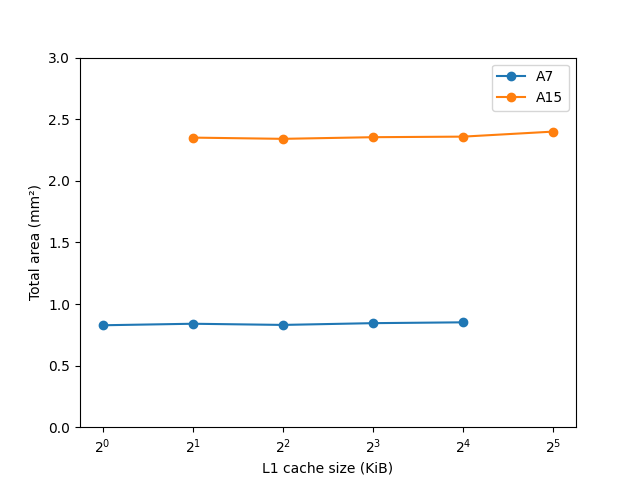
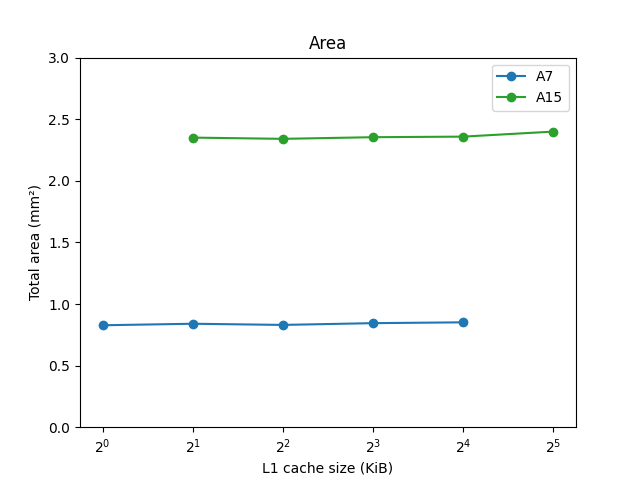
Partie 4

diff --git a/TP4/partie_3_4/prog.py b/TP4/partie_3_4/prog.py
@@ -8,37 +8,50 @@ file_name = "output.txt"
 output_file = "cacti_out.txt"
 temp_file_name = "temp.cfg"
 
+pattern_float = r"(\d+(?:\.\d*)?(?:e[-+]?\d+)?)"
 
 def run(command, output_file):
     arg = command.split()
-    with open(output_file, "w") as file:    
+    with open(output_file, "w") as file:
         process = subprocess.run(arg, stdout=file, stderr=file)
         pass
 
-    if process.returncode != 0:
-        print("Erreur dans le sous-processus")
-        print(f"Commande entrée : '{command}'")
-        print(f"returncode = {process.returncode}")
-        # exit(1)
+    # if process.returncode != 0:
+    #     print("Erreur dans le sous-processus")
+    #     print(f"Commande entrée : '{command}'")
+    #     print(f"returncode = {process.returncode}")
     return process.returncode
 
 
-def cacti_area(config_file, output_file="cacti_out.txt"):
+def cacti_stats(config_file, output_file="cacti_out.txt"):
     command = f"cacti6.5 -infile {config_file}"
     code = run(command, output_file)
     if code != 0:
-        return float("nan")
+        return float("nan"), float("nan")
 
-    pattern = r"\(mm2\): (\d+\.?\d+)"
+    # Area extraction
+    pattern = r"\(mm2\): " + pattern_float
     with open(output_file, "r") as file:
         text = "".join(file.readlines())
 
-    areas  = re.findall(pattern, text) 
+    areas = re.findall(pattern, text) 
     assert len(areas) == 2
 
-    area_cache = sum(map(float, areas))
-    return area_cache
+    area_cache = sum(map(float, areas)) # résultat en mm²
 
+    # Power extraction
+    pattern = r"(?:Data|Tag) array: +Total dynamic read energy/access +\(nJ\): " + pattern_float
+    energies = re.findall(pattern, text)
+    assert len(energies) == 2
+
+    pattern = r"(?:Data|Tag) side \(with Output driver\) \(ns\): " + pattern_float
+    durations = re.findall(pattern, text)
+    assert len(durations) == 2
+
+
+    power_cache = sum(map((lambda e, d: float(e)/float(d)), energies, durations)) * 1000 # résultat en watts
+
+    return area_cache, power_cache
 
 def write_file(proc, n_kibibytes, temp_file_name):
     with open(f"{proc}_L1.cfg", "r") as src, open(temp_file_name, "w") as dest:
@@ -53,35 +66,58 @@ def write_file(proc, n_kibibytes, temp_file_name):
 
 
 for proc in ("A7", "A15"):
-
+    print(proc)
     area_L1 = []
-    area_L2 = cacti_area(f"{proc}_L2.cfg")
-        
-    for n_kibibytes in (1, 2, 4, 8, 16, 32):    
+    power_L1 = []
+    area_L2, power_L2 = cacti_stats(f"{proc}_L2.cfg")
+
+    for n_kibibytes in (1, 2, 4, 8, 16, 32):
         write_file(proc, n_kibibytes, temp_file_name)
-        area_L1.append(cacti_area(temp_file_name))
+        a, p = cacti_stats(temp_file_name)
+        area_L1.append(a)
+        power_L1.append(p)
 
 
     # area_L1[i] contient la surface d'un cache L1 de taille 2^i kibioctets
 
 
     if proc == "A7" :
-        area_proc_plus_L1s = 0.45 
+        area_proc_plus_L1s = 0.45
+        power_proc = 100.
     elif proc == "A15":
         area_proc_plus_L1s = 2. 
+        power_proc = 500.
+
     proportion = 2 * area_L1[5] / area_proc_plus_L1s
     area_proc = area_proc_plus_L1s - 2 * area_L1[5]
 
     area_total = [area_proc + 2*area_L1[i] + area_L2 for i in range(6)]
 
+    power_proc_plus_L1 = [power_proc + 2*power_L1[i] for i in range(6)]
 
 
-    print(f" --- Processeur Cortex {proc}  --- ")
+
+    print(f" --- Processeur Cortex {proc} --- ")
 
     print(f"Surface processeur sans caches : {area_proc:.4}mm²")
     print(f"Surface de chaque cache L1 : {area_L1[5]:.4}mm²")
     print(f"Surface du cache L2 : {area_L2:.4}mm²")
     print(f"Les caches L1 occupent : {proportion:.2%} de l'ensemble coeur + caches L1")
-
-    print(area_total)
+    print(f"Surface totale : {area_total[5]:.4}mm²")
     print()
+
+    print(f"Puissance processeur sans caches : {power_proc:.4}mW")
+    print(f"Puissance de chaque cache L1 : {power_L1[5]:.4}mW")
+    print(f"Puissance du cache L2 : {power_L2:.4}mW")
+    print(f"Puissance totale (hors L1): {power_proc_plus_L1[5]:.4}mW")
+    print()
+
+    print("Valeurs en fonction de la taille des L1")
+    print("Surface proc + deux L1 + L2 : ", area_total)
+    print("Puissance L1 : ", power_L1)
+    print()
+
+
+
+
+

diff --git a/TP4/partie_3_4/graphs.py b/TP4/partie_3_4/graphs.py
@@ -1,6 +1,11 @@
 import matplotlib.pyplot as plt
 import numpy as np
 
+
+# L1 cache size vs. Area proc + 2 L1 + L2 
+
+plt.figure(1)
+
 A7_size = np.array([1, 2, 4, 8, 16])
 A15_size = np.array([2, 4, 8, 16, 32])
 
@@ -14,35 +19,92 @@ ax.set_ylim(0, 3)
 ax.set_xlabel("L1 cache size (KiB)")
 ax.set_ylabel("Total area (mm²)")
 
-ax.plot(A7_size, A7_total_area, "o-")
-ax.plot(A15_size, A15_total_area, "o-")
+ax.plot(A7_size, A7_total_area, "o-", color='#1f77b4')
+ax.plot(A15_size, A15_total_area, "o-", color='#2ca02c')
 ax.legend(["A7", "A15"])
+ax.set_title("Area")
 
 
 
+# L1 cache size vs. Efficacité surfacique avec L2
+# Dijkstra et Blowfish
 
 plt.figure(2)
 
-# Données calculées pour Blowfish
+A7_IPC_dijkstra = np.array([0.3783 , 0.3961, 0.4889 , 0.5000 , 0.5088 ])
+A7_IPC_blowfish = np.array([0.3649 , 0.3928 , 0.4195 , 0.4803 , 0.4894 ])
 
-A7_IPC = np.array([0.3783 , 0.3961, 0.4889 , 0.5000 , 0.5088 ])
-A15_IPC = np.array([0.9392 , 0.8977 , 1.0758 , 1.1312 , 1.1918 ])
+A15_IPC_dijkstra = np.array([0.9392 , 0.8977 , 1.0758 , 1.1312 , 1.1918 ])
+A15_IPC_blowfish = np.array([0.9321 , 1.2941 , 1.3239 , 1.3633 , 2.0729 ])
 
-A7_efficiency = A7_IPC / A7_total_area
-A15_efficiency = A15_IPC / A15_total_area
+A7_area_efficiency_dijkstra = A7_IPC_dijkstra / A7_total_area
+A7_area_efficiency_blowfish = A7_IPC_blowfish / A7_total_area
+
+A15_area_efficiency_dijkstra = A15_IPC_dijkstra / A15_total_area
+A15_area_efficiency_blowfish = A15_IPC_blowfish / A15_total_area
 
 
 ax = plt.gca()
 ax.set_xscale("log", base=2)
 
-ax.set_ylim(0, .8)
+ax.set_ylim(0, 1)
 ax.set_xlabel("L1 cache size (KiB)")
 ax.set_ylabel("Efficiency (IPC/mm²)")
 
-ax.plot(A7_size, A7_efficiency, "o-")
-ax.plot(A15_size, A15_efficiency, "o-")
+ax.plot(A7_size, A7_area_efficiency_dijkstra, "o-")
+ax.plot(A7_size, A7_area_efficiency_blowfish, "o-")
 
-ax.legend(["A7", "A15"])
+ax.plot(A15_size, A15_area_efficiency_dijkstra, "o-")
+ax.plot(A15_size, A15_area_efficiency_blowfish, "o-")
 
+ax.legend(["A7 dijkstra", "A7 blowfish", "A15 dijkstra", "A15 blowfish"])
+ax.set_title("Area Efficiency")
+
+
+
+# L1 cache size vs. Efficacité énergétique hors L2
+
+plt.figure(3)
+# A7_power = np.array( [429.5158138326633, 438.290650317782, 439.7005726427026, 444.79356573677114, 462.54843489878095]) #, 504.9631522516877])
+# A15_power = np.array([832.8616820299354, 833.726046018594, 835.0970092875704, 856.5908113613577, 891.8253953687693])
+
+p_rw_dijkstra = .344
+p_rw_blowfish = .2548
+
+A7_L1_power = np.array([9.064081144350169, 13.451499386909527, 14.156460549369815, 16.70295709640407, 25.580391677408983]) #, 46.78775035386236]
+A15_L1_power = np.array([13.567975081504306, 14.000157075833627, 14.68563871032174, 25.43253974721548, 43.049831750921236])
+
+
+A7_power_dijkstra = 100 + 2 * A7_L1_power * p_rw_dijkstra
+A7_power_blowfish = 100 + 2 * A7_L1_power * p_rw_blowfish
+A15_power_dijkstra = 500 + 2 * A15_L1_power * p_rw_dijkstra
+A15_power_blowfish = 500 + 2 * A15_L1_power * p_rw_blowfish
+
+A7_energy_efficiency_dijkstra = A7_IPC_dijkstra / A7_power_dijkstra
+A7_energy_efficiency_blowfish = A7_IPC_blowfish / A7_power_blowfish
+
+A15_energy_efficiency_dijkstra = A15_IPC_dijkstra / A15_power_dijkstra
+A15_energy_efficiency_blowfish = A15_IPC_blowfish / A15_power_blowfish
+
+
+ax = plt.gca()
+ax.plot(A7_size, A7_energy_efficiency_dijkstra, "o-")
+ax.plot(A7_size, A7_energy_efficiency_blowfish, "o-")
+ax.plot(A15_size, A15_energy_efficiency_dijkstra, "o-")
+ax.plot(A15_size, A15_energy_efficiency_blowfish, "o-")
+
+ax.set_xscale("log", base=2)
+
+ax.set_ylim(0, .0050)
+ax.set_xlabel("L1 cache size (KiB)")
+ax.set_ylabel("Efficiency (IPC/mW)")
+
+ax.legend(["A7 dijkstra", "A7 blowfish", "A15 dijkstra", "A15 blowfish"])
+ax.set_title("Energy Efficiency (without L2)")
 
 plt.show()
+
+
+
+
+

diff --git a/TP4/partie_3_4/README.md b/TP4/partie_3_4/README.md
@@ -1,3 +1,6 @@
+Pour les parties 3 et 4, l'exécution des commandes, l'extraction des données, et l'édition des tailles du cache L1 sont automatisées dans le script 'prog.py'  
+Certains calculs et la génération des graphiques se trouvent dans 'graphes.py'  
+
 # 3. Efficacité surfacique
 
 ### Q6
@@ -21,28 +24,75 @@ On laisse les autres paramètres comme dans l'exemple, y compris la technologie 
 On somme les valeurs d'aire des sections 'Data array' et 'Tag array' récupèrées dans le texte emis par cacti.  
 Connaissant l'aire d'un processeur avec ses deux L1 fournie par l'énoncé, et celle d'un cache L1 que l'on vient de de calculer, on peut alors déterminer l'aire du processeur seul.  
 
-> --- Processe> ur Cortex A7  ---  
-> Surface processeur sans caches : 0.373mm²  
-> Surface de chaque cache L1 : 0.0384mm²  
-> Surface du cache L2 : 0.446mm²  
-> Les caches L1 occupent 17.1% de l'ensemble coeur + caches L1  
+> --- Processeur Cortex A7 ---  
+> Surface processeur sans caches : 0.3731mm²  
+> Surface de chaque cache L1 : 0.03843mm²  
+> Surface du cache L2 : 0.4457mm²  
+> Les caches L1 occupent : 17.08% de l'ensemble coeur + caches L1  
+> Surface totale : 0.8957mm²  
 
-> --- Processeur Cortex A15  ---  
+> --- Processeur Cortex A15 ---  
 > Surface processeur sans caches : 1.93mm²  
 > Surface de chaque cache L1 : 0.0346mm²  
 > Surface du cache L2 : 0.399mm²  
-> Les caches L1 occupent 3.5% de l'ensemble coeur + caches L1  
+> Les caches L1 occupent 3.46% de l'ensemble coeur + caches L1  
+> Surface totale : 2.399mm²  
 
 ### Q8
 
-Pour chaque taille de cache, on édite le fichier configuration avec la nouvelle valeur et on répète l'opération précedente  
+Pour chaque taille de cache, on édite le fichier configuration avec la nouvelle valeur et on répète l'opération précedente.  
 Résultat : la surface de l'ensemple processeur + deux L1 + L2 évolue de manière négligeable avec la capacité des caches L1.  
 
 ![Area.png](Area.png)
 
 ### Q9
 
-Avec les valeur de CPI calculées à la partie 2 pour Blowfish, on trace l'efficacité surfacique.  
+Avec les valeur de CPI calculées à la partie 2 pour Dijkstra et Blowfish, on trace l'efficacité surfacique.  
 Avec pour seuls critères la surface et le CPI, on gagne à augmenter la capacité des caches L1.  
 
-![Efficiency.png](Efficiency.png)
+![Area_Efficiency.png](Area_Efficiency.png)
+
+
+# 4. Efficacité énergétique
+
+### Q10
+
+La puissance consommée en continu par le processeur est de  
+* Pour la A7 : 1.0 GHz * 0.10 mW/MHz = 100 mW  
+* Pour le A15 : 2.5 GHz * 0.20 mW/MHz = 500 mW  
+
+### Q11
+
+Cacti nous fournit beaucoup de données concernant des durées des énergies et des puissances.  
+Mais sans aucune documentation, difficile de savoir si telle consomation est une moyenne sur toute la durée d'allumage de la mémoire ou seulement durant l'accès, ou encore quelles valeur s'additionnent et lesquelles sont déjà comptées dans une autre...  
+
+`Data array: Total dynamic read energy/access  (nJ): ...`  
+`Tag array:  Total dynamic read energy/access (nJ): ...`  
+
+Par dépit, on va considérer que ces deux lignes correspondent aux valeurs moyennes pour un accès mémoire, et on ne distinguera pas lecture et écriture.  
+On récupère également les durées d'accès qui permettent de calculer la puissance consommé par le tableau des données et par celui des tags.  
+On somme ces deux valeurs pour trouver la puissance totale consommée par le cache, en considérant que toutes les sources de pertes sont incluses.  
+
+La puissance totale consommée par l'ensemble processeur + caches L1 sera : P_proc + 2 * P_L1 * p_rw  
+Où P_proc est la valeur calculée en Q10, et P_L1 celle déterminée avec cacti, pondrée par la proportion de lectures et écritures parmi toutes les instrucions, déterminée en Q1.  
+
+Pour Blowfish, p_rw = 22.21% + 3.27% = 25.48%  
+Pour Dijkstra, p_rw = 24.08% + 10.32% = 34.4%  
+
+On aurait pu préciser plus en distinguant la puissance consomée par une lecture ou une écriture.  
+
+> --- Processeur Cortex A7 ---  
+> Puissance processeur sans caches : 100.0mW  
+> Puissance de chaque cache L1 : 46.79mW  
+> Puissance du cache L2 : 311.4mW  
+> Puissance totale (hors L1): 193.6mW  
+
+> --- Processeur Cortex A15 ---  
+> Puissance processeur sans caches : 500.0mW  
+> Puissance de chaque cache L1 : 43.05mW  
+> Puissance du cache L2 : 305.7mW  
+> Puissance totale (hors L1): 586.1mW  
+
+On trace également les efficacités énergétiques pour chaque processeur et chacun des programmes :  
+
+![Energy_Efficiency.png](Energy_Efficiency.png)
